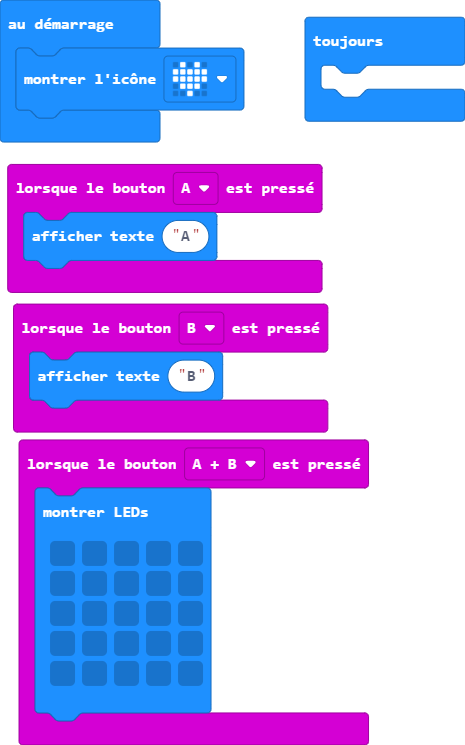
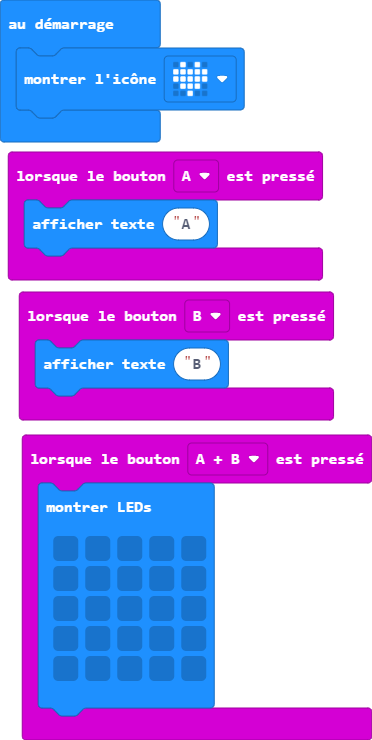
Mise à jour main.blocks, main.ts

diff --git a/main.ts b/main.ts
@@ -14,6 +14,3 @@ input.onButtonPressed(Button.B, function () {
     basic.showString("B")
 })
 basic.showIcon(IconNames.Heart)
-basic.forever(function () {
-	
-})
